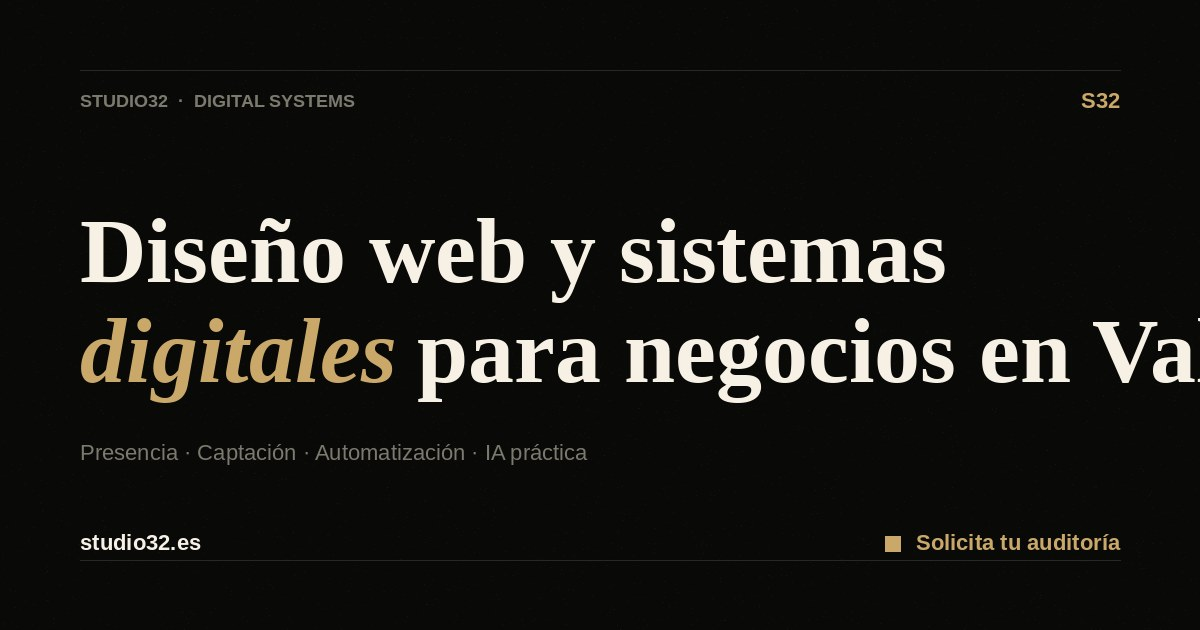
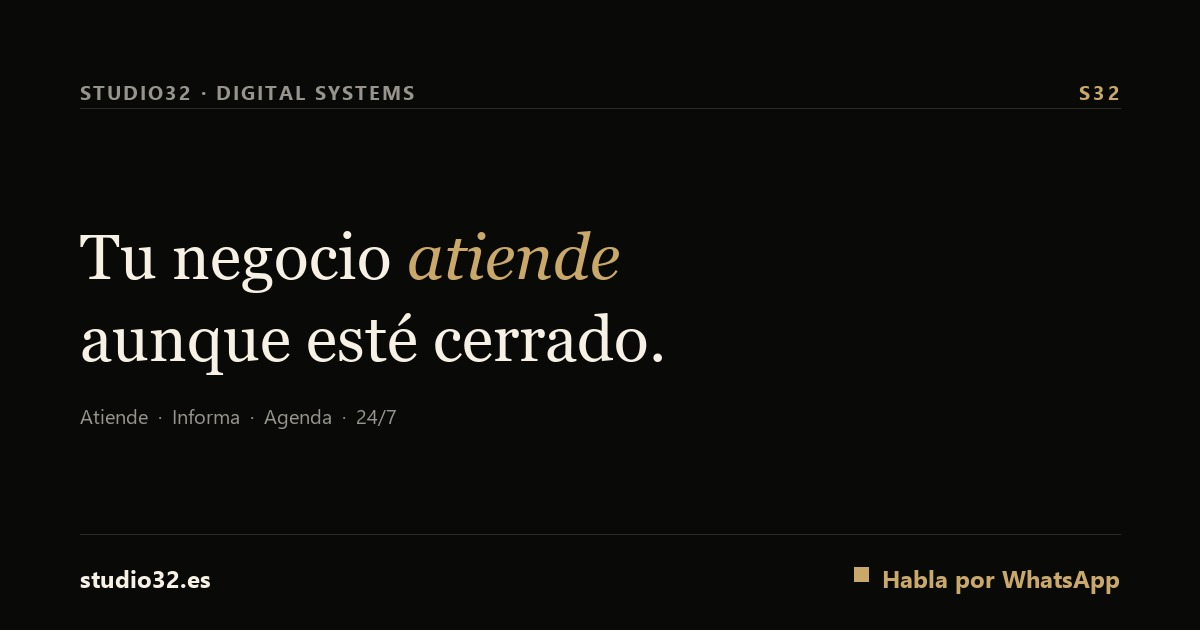
feat(web): FAQ, SEO on-page y og-cover sin Valencia
- og-cover: regenerada sin "Valencia" (reusa el copy real del hero)
- copy: elimina los incisos con raya y anade mencion natural a
  "recepcionista con IA" en la seccion del agente
- SEO: title, meta, OG y Twitter orientados a "agente de WhatsApp con IA"
  y "recepcionista con IA"; descripcion del JSON-LD enriquecida
- nueva seccion FAQ (#faq, 6 preguntas, <details> nativo) + JSON-LD FAQPage
- sitemap: corrige la URL de L'Obscur (index.html -> restaurant_landing.html)
  y actualiza lastmod de la home
- CLAUDE.md: alcance nacional; no nombrar Valencia/Espana en copy ni imagenes
- cache-bust de styles.css (v=20260718-agent-7)

diff --git a/site/index.html b/site/index.html
@@ -4,27 +4,27 @@
 <head>
     <meta charset="UTF-8">
     <meta name="viewport" content="width=device-width, initial-scale=1.0">
-    <title>Agente de WhatsApp para negocios locales · Studio32</title>
+    <title>Agente de WhatsApp con IA · Recepción 24/7 para tu negocio | Studio32</title>
     <meta name="description"
-        content="Agente de recepción por WhatsApp para negocios locales: atiende, informa y gestiona citas 24/7, con panel e intervención humana." />
+        content="Un recepcionista con IA que atiende por WhatsApp, resuelve dudas y gestiona citas 24/7. Con panel de control e intervención humana, para clínicas, restaurantes y servicios locales." />
     <meta name="theme-color" content="#090908">
 
     <!-- Open Graph -->
     <meta property="og:type" content="website" />
     <meta property="og:site_name" content="Studio32" />
-    <meta property="og:title" content="Agente de WhatsApp para negocios locales · Studio32" />
+    <meta property="og:title" content="Agente de WhatsApp con IA · Recepción 24/7 | Studio32" />
     <meta property="og:description"
-        content="Agente de recepción por WhatsApp para negocios locales: atiende, informa y gestiona citas 24/7, con panel e intervención humana." />
+        content="Un recepcionista con IA que atiende por WhatsApp, resuelve dudas y gestiona citas 24/7, con panel de control e intervención humana." />
     <meta property="og:locale" content="es_ES" />
     <meta property="og:url" content="https://www.studio32.es/" />
     <meta property="og:image" content="https://www.studio32.es/assets/og-cover.png" />
     <meta property="og:image:width" content="1200" />
     <meta property="og:image:height" content="630" />
-    <meta property="og:image:alt" content="Agente de WhatsApp para negocios locales · Studio32" />
+    <meta property="og:image:alt" content="Agente de WhatsApp con IA para negocios · Studio32" />
     <meta name="twitter:card" content="summary_large_image" />
-    <meta name="twitter:title" content="Agente de WhatsApp para negocios locales · Studio32" />
+    <meta name="twitter:title" content="Agente de WhatsApp con IA · Recepción 24/7 | Studio32" />
     <meta name="twitter:description"
-        content="Agente de recepción por WhatsApp: atiende, informa y agenda citas 24/7, con panel de control e intervención humana." />
+        content="Un recepcionista con IA que atiende por WhatsApp, resuelve dudas y agenda citas 24/7, con panel de control e intervención humana." />
     <meta name="twitter:image" content="https://www.studio32.es/assets/og-cover.png" />
 
     <link rel="icon"
@@ -36,7 +36,7 @@
         href="https://fonts.googleapis.com/css2?family=Inter:wght@400;500;600;700&family=Syne:wght@700;800&family=Playfair+Display:ital,wght@0,600;0,700;1,600;1,700&display=swap"
         rel="stylesheet">
 
-    <link rel="stylesheet" href="styles.css?v=20260717-agent-6">
+    <link rel="stylesheet" href="styles.css?v=20260718-agent-7">
 
     <script src="https://cdnjs.cloudflare.com/ajax/libs/gsap/3.12.2/gsap.min.js" defer></script>
     <script src="https://cdnjs.cloudflare.com/ajax/libs/gsap/3.12.2/ScrollTrigger.min.js" defer></script>
@@ -94,7 +94,7 @@
       "@id": "https://www.studio32.es/#studio32",
       "name": "Studio32",
       "alternateName": "Studio32 · Digital Systems",
-      "description": "Estudio de sistemas digitales para negocios locales. Producto principal: agente de recepción por WhatsApp con panel de control, gestión de citas e intervención humana. También diseño web premium y sistemas a medida.",
+      "description": "Estudio de sistemas digitales para negocios locales. Producto principal: un recepcionista con IA (agente de WhatsApp) que atiende, informa y gestiona citas 24/7, con panel de control e intervención humana. También diseño web premium y sistemas a medida.",
       "url": "https://www.studio32.es/",
       "image": "https://www.studio32.es/assets/og-cover.png",
       "logo": "https://www.studio32.es/assets/og-cover.png",
@@ -138,6 +138,63 @@
         "@type": "BusinessAudience",
         "name": "Negocios locales: clínicas, restaurantes y servicios"
       }
+    }
+    </script>
+    <script type="application/ld+json">
+    {
+      "@context": "https://schema.org",
+      "@type": "FAQPage",
+      "@id": "https://www.studio32.es/#faq",
+      "mainEntity": [
+        {
+          "@type": "Question",
+          "name": "¿Qué es un agente de WhatsApp y en qué se diferencia de un chatbot?",
+          "acceptedAnswer": {
+            "@type": "Answer",
+            "text": "Un chatbot normal responde con menús y frases enlatadas. Nuestro agente entiende lo que le preguntan y contesta con la información real de tu negocio: tus servicios, tus precios, tus horarios. Y no se queda ahí: agenda la cita y avisa a tu equipo cuando hace falta una persona."
+          }
+        },
+        {
+          "@type": "Question",
+          "name": "¿Atiende también fuera de horario?",
+          "acceptedAnswer": {
+            "@type": "Answer",
+            "text": "Sí, y ese es justo el punto. Las consultas no llegan solo en horario de oficina, y una respuesta a las once de la noche puede ser la diferencia entre una cita y un cliente que escribe al siguiente. El agente responde a cualquier hora, todos los días."
+          }
+        },
+        {
+          "@type": "Question",
+          "name": "¿Puede gestionar citas y reservas de verdad?",
+          "acceptedAnswer": {
+            "@type": "Answer",
+            "text": "Sí. Crea, cambia y cancela citas sobre la disponibilidad real de tu negocio, sin llamadas cruzadas ni huecos dobles. Cada cita queda registrada y tu equipo la ve en el panel al momento."
+          }
+        },
+        {
+          "@type": "Question",
+          "name": "¿Y si el cliente necesita hablar con una persona?",
+          "acceptedAnswer": {
+            "@type": "Answer",
+            "text": "Cualquiera de tu equipo puede entrar en la conversación desde el panel, seguir donde lo dejó el agente y devolvérsela cuando quiera. El agente no sustituye el trato humano: lo cubre cuando tu equipo no puede atender."
+          }
+        },
+        {
+          "@type": "Question",
+          "name": "¿Para qué tipo de negocios funciona?",
+          "acceptedAnswer": {
+            "@type": "Answer",
+            "text": "Sobre todo para negocios donde atender rápido y ordenar las citas marca la diferencia: clínicas y centros de salud, restauración, y servicios locales que trabajan con cita o presupuesto. Cada uno se configura con sus propias reglas."
+          }
+        },
+        {
+          "@type": "Question",
+          "name": "¿Cómo se pone en marcha?",
+          "acceptedAnswer": {
+            "@type": "Answer",
+            "text": "Nos sentamos a entender cómo trabajas, preparamos el agente con tu información y lo probamos de principio a fin antes de abrirlo a tus clientes. Después seguimos encima: revisamos conversaciones y lo vamos afinando. No te dejamos solo con una herramienta el primer día."
+          }
+        }
+      ]
     }
     </script>
 </head>
@@ -229,8 +286,8 @@
             </h1>
 
             <div class="hero-bottom">
-                <p class="hero-desc">Un agente que atiende, informa y gestiona citas por WhatsApp —también fuera de
-                    horario— con panel de control, historial e intervención humana cuando tu equipo la necesite.</p>
+                <p class="hero-desc">Un agente que atiende, informa y gestiona citas por WhatsApp, incluso fuera de
+                    horario. Con panel de control, historial e intervención humana cuando tu equipo la necesite.</p>
                 <div class="hero-actions">
                     <a href="https://wa.me/34694293166?text=Hola,%20quiero%20informaci%C3%B3n%20sobre%20el%20agente%20de%20recepci%C3%B3n%20por%20WhatsApp%20para%20mi%20negocio."
                         target="_blank" rel="noopener" class="hero-cta">Hablar por WhatsApp</a>
@@ -311,9 +368,9 @@
                 <div class="agent-copy">
                     <p class="section-label">[ EL AGENTE ]</p>
                     <h2 class="split-lines headline-med">Una recepción<br>que <em>no cierra</em>.</h2>
-                    <p class="body-large split-lines">El agente atiende en WhatsApp con la información real de tu
-                        negocio: servicios, precios, horarios y políticas. Resuelve las dudas de siempre, recoge el
-                        contacto y gestiona citas —también fuera de horario.</p>
+                    <p class="body-large split-lines">Es un recepcionista con IA que atiende en WhatsApp con la
+                        información real de tu negocio: servicios, precios, horarios y políticas. Resuelve las dudas de
+                        siempre, recoge el contacto y gestiona citas, incluso fuera de horario.</p>
                     <p class="body-large split-lines">Todo queda en un panel: conversaciones, citas y lo que hizo el
                         agente. Tu equipo entra en cualquier momento sin perder el contexto y se la devuelve cuando
                         quiera.</p>
@@ -687,6 +744,86 @@
                         <strong>Explorar demo ↗</strong>
                     </div>
                 </a>
+            </div>
+        </div>
+    </section>
+
+    <section class="section faq" id="faq">
+        <div class="container">
+            <div class="faq-header">
+                <p class="section-label">[ PREGUNTAS FRECUENTES ]</p>
+                <h2 class="split-lines headline-med">Lo que suelen<br><em>preguntarnos</em>.</h2>
+                <p>Si estás pensando en poner un agente a atender tu WhatsApp, seguramente tengas estas mismas dudas.
+                    Te las respondemos claras.</p>
+            </div>
+
+            <div class="faq-list">
+                <details class="faq-item" open>
+                    <summary>
+                        <span class="faq-q">¿Qué es un agente de WhatsApp y en qué se diferencia de un chatbot?</span>
+                        <span class="faq-icon" aria-hidden="true"></span>
+                    </summary>
+                    <div class="faq-a">
+                        <p>Un chatbot normal responde con menús y frases enlatadas. Nuestro agente entiende lo que le
+                            preguntan y contesta con la información real de tu negocio: tus servicios, tus precios, tus
+                            horarios. Y no se queda ahí: agenda la cita y avisa a tu equipo cuando hace falta una persona.</p>
+                    </div>
+                </details>
+                <details class="faq-item">
+                    <summary>
+                        <span class="faq-q">¿Atiende también fuera de horario?</span>
+                        <span class="faq-icon" aria-hidden="true"></span>
+                    </summary>
+                    <div class="faq-a">
+                        <p>Sí, y ese es justo el punto. Las consultas no llegan solo en horario de oficina, y una
+                            respuesta a las once de la noche puede ser la diferencia entre una cita y un cliente que
+                            escribe al siguiente. El agente responde a cualquier hora, todos los días.</p>
+                    </div>
+                </details>
+                <details class="faq-item">
+                    <summary>
+                        <span class="faq-q">¿Puede gestionar citas y reservas de verdad?</span>
+                        <span class="faq-icon" aria-hidden="true"></span>
+                    </summary>
+                    <div class="faq-a">
+                        <p>Sí. Crea, cambia y cancela citas sobre la disponibilidad real de tu negocio, sin llamadas
+                            cruzadas ni huecos dobles. Cada cita queda registrada y tu equipo la ve en el panel al
+                            momento.</p>
+                    </div>
+                </details>
+                <details class="faq-item">
+                    <summary>
+                        <span class="faq-q">¿Y si el cliente necesita hablar con una persona?</span>
+                        <span class="faq-icon" aria-hidden="true"></span>
+                    </summary>
+                    <div class="faq-a">
+                        <p>Cualquiera de tu equipo puede entrar en la conversación desde el panel, seguir donde lo dejó
+                            el agente y devolvérsela cuando quiera. El agente no sustituye el trato humano: lo cubre
+                            cuando tu equipo no puede atender.</p>
+                    </div>
+                </details>
+                <details class="faq-item">
+                    <summary>
+                        <span class="faq-q">¿Para qué tipo de negocios funciona?</span>
+                        <span class="faq-icon" aria-hidden="true"></span>
+                    </summary>
+                    <div class="faq-a">
+                        <p>Sobre todo para negocios donde atender rápido y ordenar las citas marca la diferencia:
+                            clínicas y centros de salud, restauración, y servicios locales que trabajan con cita o
+                            presupuesto. Cada uno se configura con sus propias reglas.</p>
+                    </div>
+                </details>
+                <details class="faq-item">
+                    <summary>
+                        <span class="faq-q">¿Cómo se pone en marcha?</span>
+                        <span class="faq-icon" aria-hidden="true"></span>
+                    </summary>
+                    <div class="faq-a">
+                        <p>Nos sentamos a entender cómo trabajas, preparamos el agente con tu información y lo probamos
+                            de principio a fin antes de abrirlo a tus clientes. Después seguimos encima: revisamos
+                            conversaciones y lo vamos afinando. No te dejamos solo con una herramienta el primer día.</p>
+                    </div>
+                </details>
             </div>
         </div>
     </section>

diff --git a/site/styles.css b/site/styles.css
@@ -2146,6 +2146,110 @@ body.menu-open .mobile-menu {
     color: var(--text-muted);
 }
 
+/* ---------- Preguntas frecuentes ---------- */
+.faq-header {
+    max-width: 760px;
+    margin-bottom: clamp(46px, 6vw, 80px);
+}
+
+.faq-header .headline-med {
+    margin: 22px 0 26px;
+}
+
+.faq-header p {
+    max-width: 60ch;
+    color: var(--text-muted);
+    font-size: 1.02rem;
+    line-height: 1.65;
+}
+
+.faq-list {
+    max-width: 940px;
+    border-top: 1px solid var(--border);
+}
+
+.faq-item {
+    border-bottom: 1px solid var(--border);
+}
+
+.faq-item summary {
+    display: flex;
+    align-items: flex-start;
+    justify-content: space-between;
+    gap: 28px;
+    padding: 30px 4px;
+    cursor: pointer;
+    list-style: none;
+    transition: color 0.25s var(--transition);
+}
+
+.faq-item summary::-webkit-details-marker {
+    display: none;
+}
+
+.faq-item summary:hover {
+    color: var(--accent-color);
+}
+
+.faq-q {
+    font-family: var(--font-body);
+    font-size: clamp(1.02rem, 1.5vw, 1.24rem);
+    font-weight: 600;
+    line-height: 1.4;
+    color: inherit;
+}
+
+.faq-icon {
+    position: relative;
+    flex-shrink: 0;
+    width: 20px;
+    height: 20px;
+    margin-top: 3px;
+    color: var(--text-subtle);
+    transition: color 0.25s var(--transition);
+}
+
+.faq-item summary:hover .faq-icon {
+    color: var(--accent-color);
+}
+
+.faq-icon::before,
+.faq-icon::after {
+    content: '';
+    position: absolute;
+    top: 50%;
+    left: 50%;
+    width: 15px;
+    height: 1.5px;
+    background: currentColor;
+    transform: translate(-50%, -50%);
+    transition: transform 0.3s var(--transition), opacity 0.3s var(--transition);
+}
+
+.faq-icon::after {
+    transform: translate(-50%, -50%) rotate(90deg);
+}
+
+.faq-item[open] .faq-icon {
+    color: var(--accent-color);
+}
+
+.faq-item[open] .faq-icon::after {
+    opacity: 0;
+    transform: translate(-50%, -50%) rotate(0deg);
+}
+
+.faq-a {
+    max-width: 68ch;
+    padding: 0 4px 34px;
+}
+
+.faq-a p {
+    color: var(--text-muted);
+    font-size: 1rem;
+    line-height: 1.72;
+}
+
 @media (max-width: 1200px) {
     .control-grid {
         grid-template-columns: 1fr;
@@ -2598,6 +2702,15 @@ body.menu-open .mobile-menu {
 
     .hero-meta {
         font-size: 0.82rem;
+    }
+
+    .faq-item summary {
+        gap: 18px;
+        padding: 24px 2px;
+    }
+
+    .faq-a {
+        padding: 0 2px 28px;
     }
 }
 

diff --git a/CLAUDE.md b/CLAUDE.md
@@ -59,7 +59,7 @@ Primary target clients:
 - Architecture, interiorism, and reform studios
 - Local premium services (any vertical with strong real-world quality but weak digital presence)
 
-Geographic context: Spain (Valencia-based). Prices in EUR. Copy in Spanish unless explicitly requested otherwise.
+Geographic context: national scope, not tied to any city or region. Do not name Valencia or Spain in marketing copy or imagery — Studio32 stands on its own. Prices in EUR. Copy in Spanish unless explicitly requested otherwise.
 
 ---
 